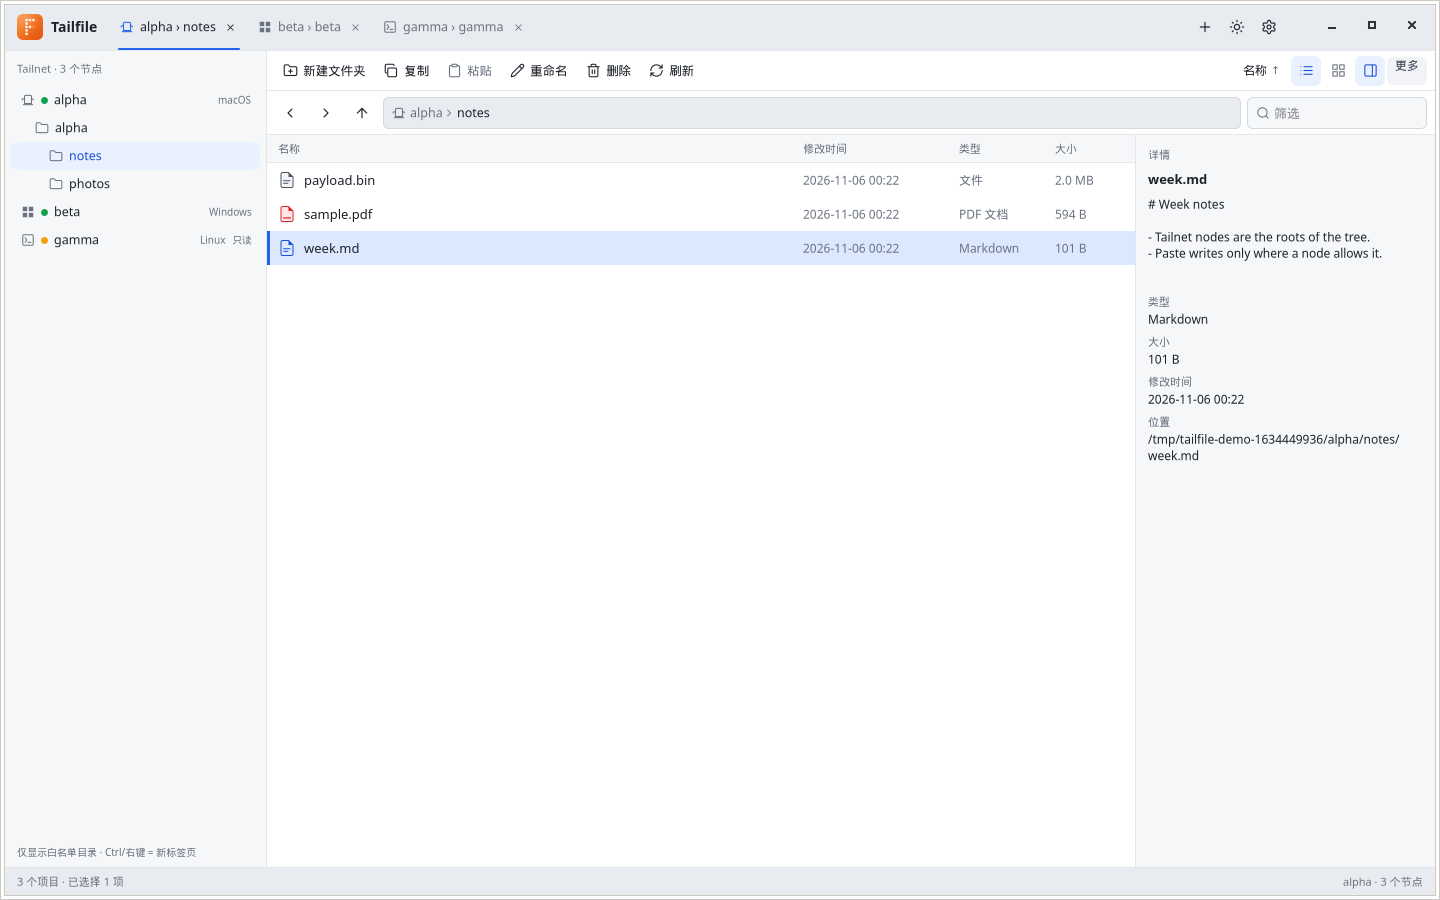
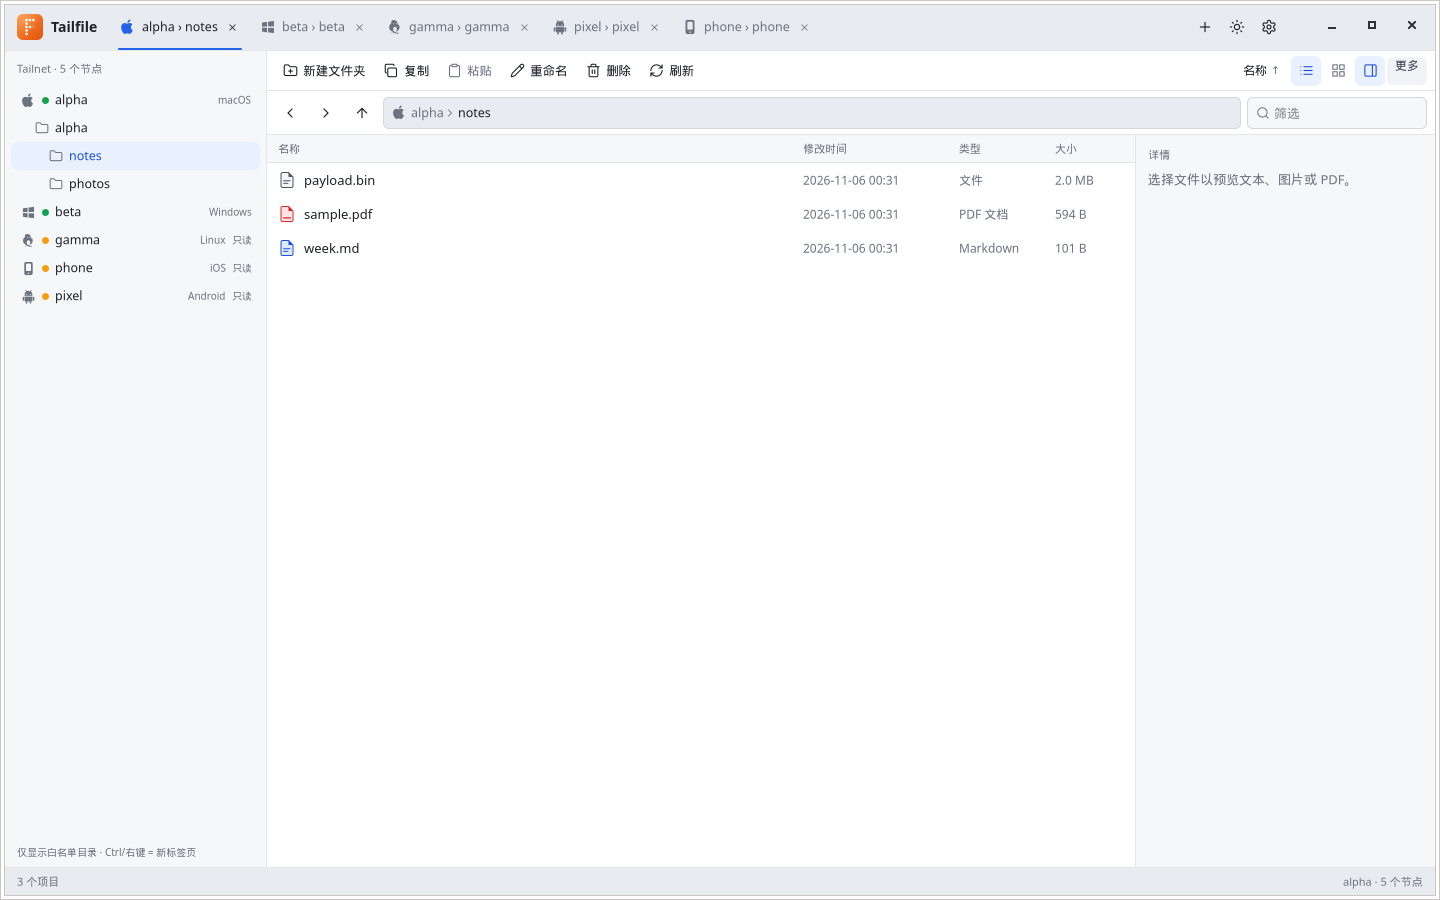
fix(nsh): draw Apple, Windows, Tux, Android, and iPhone marks
Replace generic device icons on tabs and the node tree with five
theme-colored silhouettes. Demo nodes now include android and ios
alongside macos, windows, and linux.

diff --git a/gui-nsh/src/icons.rs b/gui-nsh/src/icons.rs
@@ -2,7 +2,7 @@
 //! Paths are ISC/MIT Lucide (24×24 viewBox); painted with stroke (or fill for logo dots).
 
 use nsh_core::SvgPaint;
-use nsh_core::canvas::{CanvasGradient, LineCap, LineJoin};
+use nsh_core::canvas::{CanvasGradient, FillRule, LineCap, LineJoin};
 use nsh_core::prelude::*;
 
 pub const LOGO_LABEL: &str = "F";
@@ -53,6 +53,16 @@ pub mod path {
     pub const PLUS: &str = "M5 12h14M12 5v14";
     pub const X: &str = "M18 6 6 18M6 6l12 12";
     pub const ELLIPSIS: &str = "M12 12h.01M19 12h.01M5 12h.01";
+    /// Apple logo: leaf plus bitten body. One filled silhouette.
+    pub const APPLE: &str = "M16.37 12.25c-.03-2.72 2.22-4.02 2.32-4.09-1.27-1.85-3.24-2.1-3.94-2.13-1.68-.17-3.28 1-4.13 1-.86 0-2.17-.97-3.57-.94-1.83.03-3.52 1.07-4.46 2.71-1.9 3.3-.49 8.18 1.37 10.86.9 1.31 1.98 2.78 3.39 2.73 1.36-.06 1.88-.88 3.53-.88 1.64 0 2.11.88 3.55.85 1.46-.02 2.39-1.33 3.28-2.65.98-1.48 1.38-2.91 1.4-2.98-.03-.01-2.69-1.03-2.72-4.09zM14.34 4.11c.75-.91 1.25-2.17 1.11-3.43-1.07.04-2.37.71-3.14 1.62-.69.8-1.29 2.08-1.13 3.31 1.2.09 2.42-.61 3.16-1.5z";
+    /// Windows flag: four perspective panes.
+    pub const WINDOWS: &str = "M3.1 5.35 10.55 4.25 10.55 11.15 3.1 11.55Z M12.15 4.05 20.9 2.9 20.9 11.05 12.15 11.15Z M3.1 12.85 10.55 13.15 10.55 20.15 3.1 18.85Z M12.15 13.25 20.9 13.4 20.9 21.15 12.15 19.95Z";
+    /// Tux: body, belly, eyes, beak, feet. Holes use even-odd.
+    pub const TUX: &str = "M12 2.15a3.55 3.55 0 0 1 3.35 4.35c1.85.85 3.45 2.85 3.45 5.7 0 3.55-2.35 6.15-5.55 6.95l.15 1.15 1.55.15-.35 1.7h-2.15l-.25-1.45h-2.4l-.25 1.45H7.4l-.35-1.7 1.55-.15.15-1.15C5.55 18.35 3.2 15.75 3.2 12.2c0-2.85 1.6-4.85 3.45-5.7A3.55 3.55 0 0 1 12 2.15z M12 11.6a2.85 3.85 0 0 1 0 7.7 2.85 3.85 0 0 1 0-7.7z M10.15 6.35a.72.72 0 1 0 .02 0z M13.85 6.35a.72.72 0 1 0 .02 0z M16.15 7.55l2.15.55-1.85 1.15z M6.55 20.55h3.15l.35 1.55H6.9z M14.3 20.55h3.15l-.35 1.55h-3.15z";
+    /// Android robot: dome head, antennae, body, limbs; eyes are holes.
+    pub const ANDROID: &str = "M8.15 4.05 6.85 2.15l.95-.55 1.4 2.05A6.4 6.4 0 0 1 12 3.2a6.4 6.4 0 0 1 2.8.45l1.4-2.05.95.55-1.3 1.9A6.3 6.3 0 0 1 18.2 9.2V11H5.8V9.2a6.3 6.3 0 0 1 2.35-5.15z M5.6 12.2h12.8v6.15a1.7 1.7 0 0 1-1.7 1.7H7.3a1.7 1.7 0 0 1-1.7-1.7z M2.7 12.55h2.15v5.15a1.05 1.05 0 0 1-1.05 1.05H3.2a.5.5 0 0 1-.5-.5z M19.15 12.55H21.3v5.7a.5.5 0 0 1-.5.5h-.6a1.05 1.05 0 0 1-1.05-1.05z M7.7 20.35h2.35v2.15a.85.85 0 0 1-.85.85h-.65a.85.85 0 0 1-.85-.85z M13.95 20.35h2.35v2.15a.85.85 0 0 1-.85.85h-.65a.85.85 0 0 1-.85-.85z M9.15 8.15a.9.9 0 1 0 .02 0z M14.85 8.15a.9.9 0 1 0 .02 0z";
+    /// iPhone: rounded body, screen, circular home button. Holes use even-odd.
+    pub const IPHONE: &str = "M8 1.45h8a2.7 2.7 0 0 1 2.7 2.7v15.7a2.7 2.7 0 0 1-2.7 2.7H8a2.7 2.7 0 0 1-2.7-2.7V4.15A2.7 2.7 0 0 1 8 1.45z M9.15 4.15h5.7a1.15 1.15 0 0 1 1.15 1.15v9.55a1.15 1.15 0 0 1-1.15 1.15h-5.7a1.15 1.15 0 0 1-1.15-1.15V5.3a1.15 1.15 0 0 1 1.15-1.15z M12 18.55a1.2 1.2 0 1 0 .02 0z";
     /// Lucide `square-terminal`: a Linux terminal window.
     pub const SQUARE_TERMINAL: &str = "M5 3h14a2 2 0 0 1 2 2v14a2 2 0 0 1-2 2H5a2 2 0 0 1-2-2V5a2 2 0 0 1 2-2zM7 8l3 4-3 4M12 16h5";
     /// Filled document page (folded corner is a separate triangle).
@@ -181,10 +191,11 @@ pub fn typed_file_icon(kind: FileKind, size: f32) -> CanvasView {
     .flex_none()
 }
 
-/// Host OS as a Lucide-style mark in `currentColor` (theme foreground).
+/// The five host families the chrome draws. Anything else has no glyph.
 #[derive(Clone, Copy, PartialEq, Eq, Debug)]
 pub enum OsKind {
     Mac,
+    Ios,
     Windows,
     Linux,
     Android,
@@ -193,12 +204,14 @@ pub enum OsKind {
 
 pub fn os_kind(os: &str) -> OsKind {
     let o = os.trim().to_ascii_lowercase();
-    if o.contains("mac") || o.contains("darwin") || o == "ios" {
+    if o.contains("android") {
+        OsKind::Android
+    } else if o.contains("ios") || o.contains("iphone") || o.contains("ipad") {
+        OsKind::Ios
+    } else if o.contains("mac") || o.contains("darwin") || o.contains("osx") {
         OsKind::Mac
     } else if o.contains("win") {
         OsKind::Windows
-    } else if o.contains("android") {
-        OsKind::Android
     } else if o.contains("linux") || o.contains("unix") || o.contains("bsd") {
         OsKind::Linux
     } else {
@@ -209,6 +222,7 @@ pub fn os_kind(os: &str) -> OsKind {
 pub fn os_label(os: &str) -> &'static str {
     match os_kind(os) {
         OsKind::Mac => "macOS",
+        OsKind::Ios => "iOS",
         OsKind::Windows => "Windows",
         OsKind::Linux => "Linux",
         OsKind::Android => "Android",
@@ -216,29 +230,39 @@ pub fn os_label(os: &str) -> &'static str {
     }
 }
 
-/// Neutral OS glyph. Mac is a laptop, Windows the four-pane mark, Linux a
-/// terminal, Android a phone. All follow the view's text color.
+/// Mono OS mark in the view's text color. Lucide has no Apple, Windows,
+/// Tux, or Android robot, so these are small filled silhouettes (24×24).
 pub fn os_icon(os: &str, size: f32) -> CanvasView {
     match os_kind(os) {
-        OsKind::Mac => stroke_icon(path::LAPTOP, size),
-        OsKind::Windows => windows_mark(size),
-        OsKind::Linux => stroke_icon(path::SQUARE_TERMINAL, size),
-        OsKind::Android => stroke_icon(path::SMARTPHONE, size),
-        OsKind::Other => stroke_icon(path::MONITOR, size),
+        OsKind::Mac => filled_svg(path::APPLE, size),
+        OsKind::Ios => evenodd_svg(path::IPHONE, size),
+        OsKind::Windows => filled_svg(path::WINDOWS, size),
+        OsKind::Linux => evenodd_svg(path::TUX, size),
+        OsKind::Android => evenodd_svg(path::ANDROID, size),
+        OsKind::Other => filled_svg("", size).w(px(0.0)).h(px(0.0)),
     }
 }
 
-/// Four panes, the Windows mark, filled with currentColor.
-fn windows_mark(size: f32) -> CanvasView {
+fn filled_svg(d: &'static str, size: f32) -> CanvasView {
     let scale = size / 24.0;
     canvas(move || {
         Painter::new()
             .scale(scale, scale)
             .fill_style_from_view(SvgPaint::CurrentColor)
-            .fill_rect(3.0, 3.0, 7.6, 7.6)
-            .fill_rect(13.4, 3.0, 7.6, 7.6)
-            .fill_rect(3.0, 13.4, 7.6, 7.6)
-            .fill_rect(13.4, 13.4, 7.6, 7.6)
+            .fill_svg(d)
+    })
+    .w(px(size))
+    .h(px(size))
+    .flex_none()
+}
+
+fn evenodd_svg(d: &'static str, size: f32) -> CanvasView {
+    let scale = size / 24.0;
+    canvas(move || {
+        Painter::new()
+            .scale(scale, scale)
+            .fill_style_from_view(SvgPaint::CurrentColor)
+            .fill_path(&nsh_core::canvas::svg_path(d), FillRule::EvenOdd)
     })
     .w(px(size))
     .h(px(size))
@@ -386,10 +410,13 @@ mod tests {
         assert!(matches!(file_kind("预算.xlsx", false), FileKind::Sheet));
         assert_eq!(os_kind("macOS"), OsKind::Mac);
         assert_eq!(os_kind("darwin"), OsKind::Mac);
+        assert_eq!(os_kind("iOS"), OsKind::Ios);
+        assert_eq!(os_kind("iPhone"), OsKind::Ios);
         assert_eq!(os_kind("windows"), OsKind::Windows);
         assert_eq!(os_kind("linux"), OsKind::Linux);
         assert_eq!(os_kind("android"), OsKind::Android);
         assert_eq!(os_kind("loopback"), OsKind::Other);
+        assert_eq!(os_label("ios"), "iOS");
         assert_eq!(os_label("windows"), "Windows");
     }
 }

diff --git a/agent/demo.go b/agent/demo.go
@@ -22,14 +22,14 @@ func runDemo(ctx context.Context, cfg Config) error {
 		<-ctx.Done()
 		os.RemoveAll(root)
 	}()
-	specs := make([]LoopSpec, 0, 3)
-	for _, name := range []string{"alpha", "beta", "gamma"} {
+	specs := make([]LoopSpec, 0, 5)
+	for _, name := range []string{"alpha", "beta", "gamma", "pixel", "phone"} {
 		dir := filepath.Join(root, name)
 		if err := os.MkdirAll(dir, 0o755); err != nil {
 			return err
 		}
 		spec := LoopSpec{ID: name, Read: []string{dir}, OS: demoOS(name)}
-		if name != "gamma" {
+		if name == "alpha" || name == "beta" {
 			spec.Write = []string{dir}
 		}
 		specs = append(specs, spec)
@@ -63,13 +63,12 @@ func runDemo(ctx context.Context, cfg Config) error {
 	lb.Token = token
 	log.Printf("tailfile demo orchestrator on http://%s (owner %s)", cfg.LocalAddr, owner)
 	log.Printf("drag-out cache: %s", cacheDir)
-	log.Printf("nodes: alpha and beta accept writes; gamma is read-only")
+	log.Printf("nodes: alpha and beta accept writes; gamma, pixel, and phone are read-only")
 	return serveLocal(ctx, cfg.LocalAddr, lb.Handler())
 }
 
-// demoOS gives the three fixture nodes distinct host OS marks so the GUI
-// can show a Mac, Windows, and Linux glyph. It does not change what the
-// nodes can read or write.
+// demoOS labels the fixture nodes so the GUI can show every host glyph.
+// It does not change what alpha and beta can write.
 func demoOS(name string) string {
 	switch name {
 	case "alpha":
@@ -78,6 +77,10 @@ func demoOS(name string) string {
 		return "windows"
 	case "gamma":
 		return "linux"
+	case "pixel":
+		return "android"
+	case "phone":
+		return "ios"
 	default:
 		return "linux"
 	}

diff --git a/gui-nsh/src/ui.rs b/gui-nsh/src/ui.rs
@@ -167,7 +167,7 @@ fn tab_chip(state: Signal<Ui>, index: usize, title: String, os: String) -> impl 
                 .flex_1()
                 .min_w(px(0.0))
                 .on_press(move || model::switch_tab(state, index))
-                .child(icons::os_icon(&os_for_icon, 14.0).text_color(move || {
+                .child(icons::os_icon(&os_for_icon, 16.0).text_color(move || {
                     if state.get().active_tab == index {
                         theme().primary
                     } else {
@@ -320,7 +320,7 @@ fn tree_item(state: Signal<Ui>, row: ReadSignal<TreeRow>) -> impl IntoElement {
                     .flex_row()
                     .items_center()
                     .gap(px(6.0))
-                    .child(icons::os_icon(&os, 14.0).text_color(move || theme().muted_foreground))
+                    .child(icons::os_icon(&os, 15.0).text_color(move || theme().muted_foreground))
                     .child(icons::status_dot(online, ro))
                     .into_element()
             } else {
@@ -574,7 +574,7 @@ fn breadcrumb(state: Signal<Ui>) -> impl IntoElement {
         .child(dynamic(move || {
             let ui = state.get();
             let os = node_os(&ui, &ui.folder_node);
-            icons::os_icon(&os, 14.0).text_color(move || theme().muted_foreground)
+            icons::os_icon(&os, 15.0).text_color(move || theme().muted_foreground)
         }))
         .child(
             scroll()

diff --git a/docs/NSH_UI.md b/docs/NSH_UI.md
@@ -5,7 +5,7 @@
 ## 布局
 
 - 单窗格：左侧节点树常驻；右侧地址/列表 + 可开关预览。
-- 标题栏：`set_title_bar(Hidden)` 去掉系统标题文字，橙色点阵 **F**、应用名、主机标签、主题和设置画在同一行。系统窗口按钮留在 `title_bar()` 报告的左右留白里。每个标签绑定「主机 + 当前目录」，带该主机的 OS 字形（Lucide 风格、跟随主题色），当前标签为蓝色下划线。
+- 标题栏：`set_title_bar(Hidden)` 去掉系统标题文字，橙色点阵 **F**、应用名、主机标签、主题和设置画在同一行。系统窗口按钮留在 `title_bar()` 报告的左右留白里。每个标签绑定「主机 + 当前目录」，带该主机的 OS 字形（Apple / Windows 旗 / Tux / Android 机器人 / iPhone，单色跟随主题），当前标签为蓝色下划线。
 - 工具栏：新建文件夹、复制、粘贴（剪贴板空时禁用）、重命名、删除、刷新；右侧为排序与视图。后退/前进/上一级在面包屑行。推送/拉取在「更多」。
 - 状态栏：可见项数、剪贴板摘要、错误信息。
 - 设置：外观（跟随系统/浅色/深色）+ 既有 auth-key 行为。
@@ -38,7 +38,7 @@
 
 - `ThemePref` → `set_color_scheme`（System/Light/Dark）。
 - `nsh.json` 的 `theme.cssVars` 在 `cargo run` 时经 `Root::tokens` 注入（CLI `nsh run` 自己读这份文件）。选中行用 `selection`，强调色用 `primary`（蓝）；标志 F 仍是橙色。
-- 标题栏标志是应用图标：圆角橙方块（`#fb923c` → `#e2510b`）加暖白点阵 F，对齐 `gui-nsh/assets/tailfile-app-icon.svg`。工具栏与 OS 标记用 Lucide 路径（Windows 为同风格的四格标记）。ISC/MIT 声明见 `icons::THIRD_PARTY_NOTICES`。
+- 标题栏标志是应用图标：圆角橙方块（`#fb923c` → `#e2510b`）加暖白点阵 F，对齐 `gui-nsh/assets/tailfile-app-icon.svg`。工具栏用 Lucide 路径。OS 标记是五种单色剪影（Apple、Windows 旗、Tux、Android 机器人、iPhone），因为 Lucide 没有这些标志。ISC/MIT 声明见 `icons::THIRD_PARTY_NOTICES`。
 
 ## 移动端 / 响应式计划
 

diff --git a/docs/IMPLEMENTATION_NOTES.md b/docs/IMPLEMENTATION_NOTES.md
@@ -24,7 +24,7 @@
 
 - Tabs, logo, and theme/settings share one row. `set_title_bar(TitleBarStyle::Hidden)` drops the system title text; GTK/Windows/macOS window buttons stay in the insets from `title_bar()`.
 - `cargo run` injects `nsh.json` `theme.cssVars` via `Root::tokens`. Row selection uses `selection`; the left bar and the active-tab underline use `primary`. The dotted F stays orange.
-- Each tab and tree node shows a Lucide-style OS glyph (laptop, four-pane Windows mark, terminal, phone) from the node's `os`. Demo nodes report macos / windows / linux.
+- Each tab and tree node shows one of five mono silhouettes from the node's `os`: Apple, Windows flag, Tux, Android robot, iPhone. Lucide has none of those marks. Demo nodes are macos, windows, linux, android, and ios.
 - Paste is disabled while the clipboard is empty. Breadcrumbs are the host plus the path under that node's read root.
 - Screenshots: `docs/screenshots/nsh-native/light-main.png`, `dark-main.png`, `delete-confirm.png`.
 - Title-bar mark is the app icon from `gui-nsh/assets/tailfile-app-icon.svg` (squircle `#fb923c`→`#e2510b`, warm-white dotted F), not the bare wordmark F.
